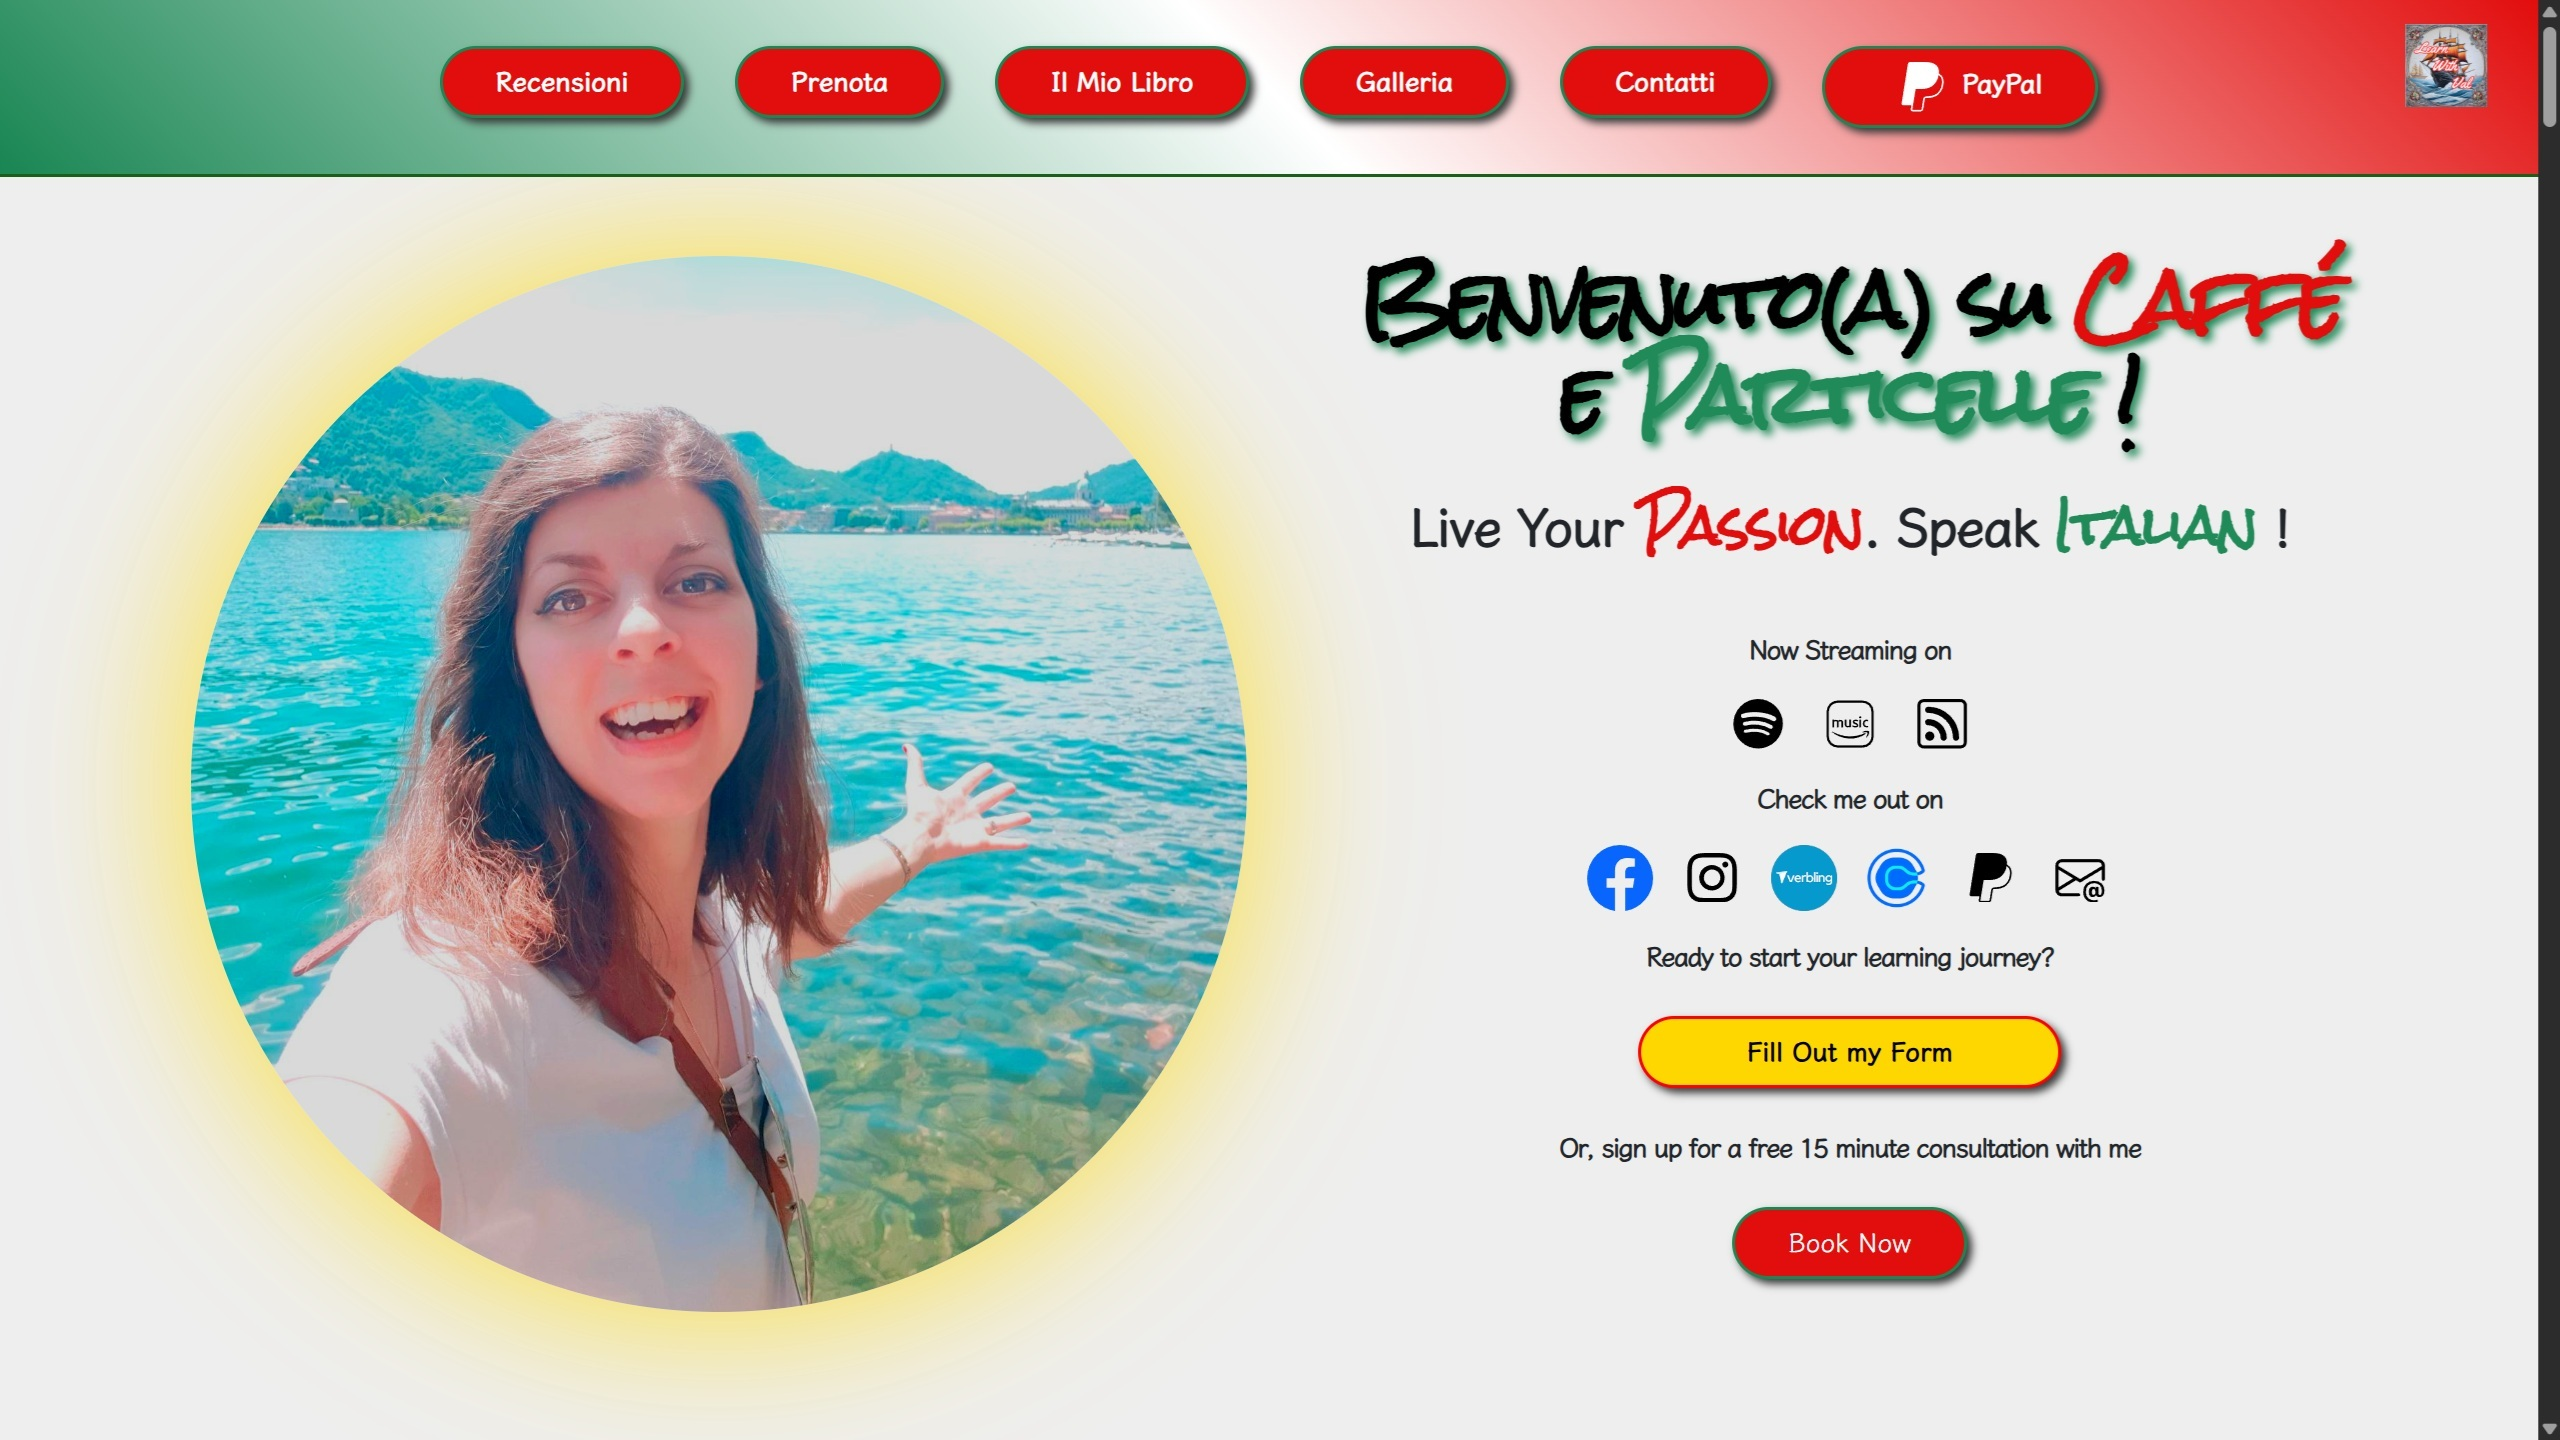
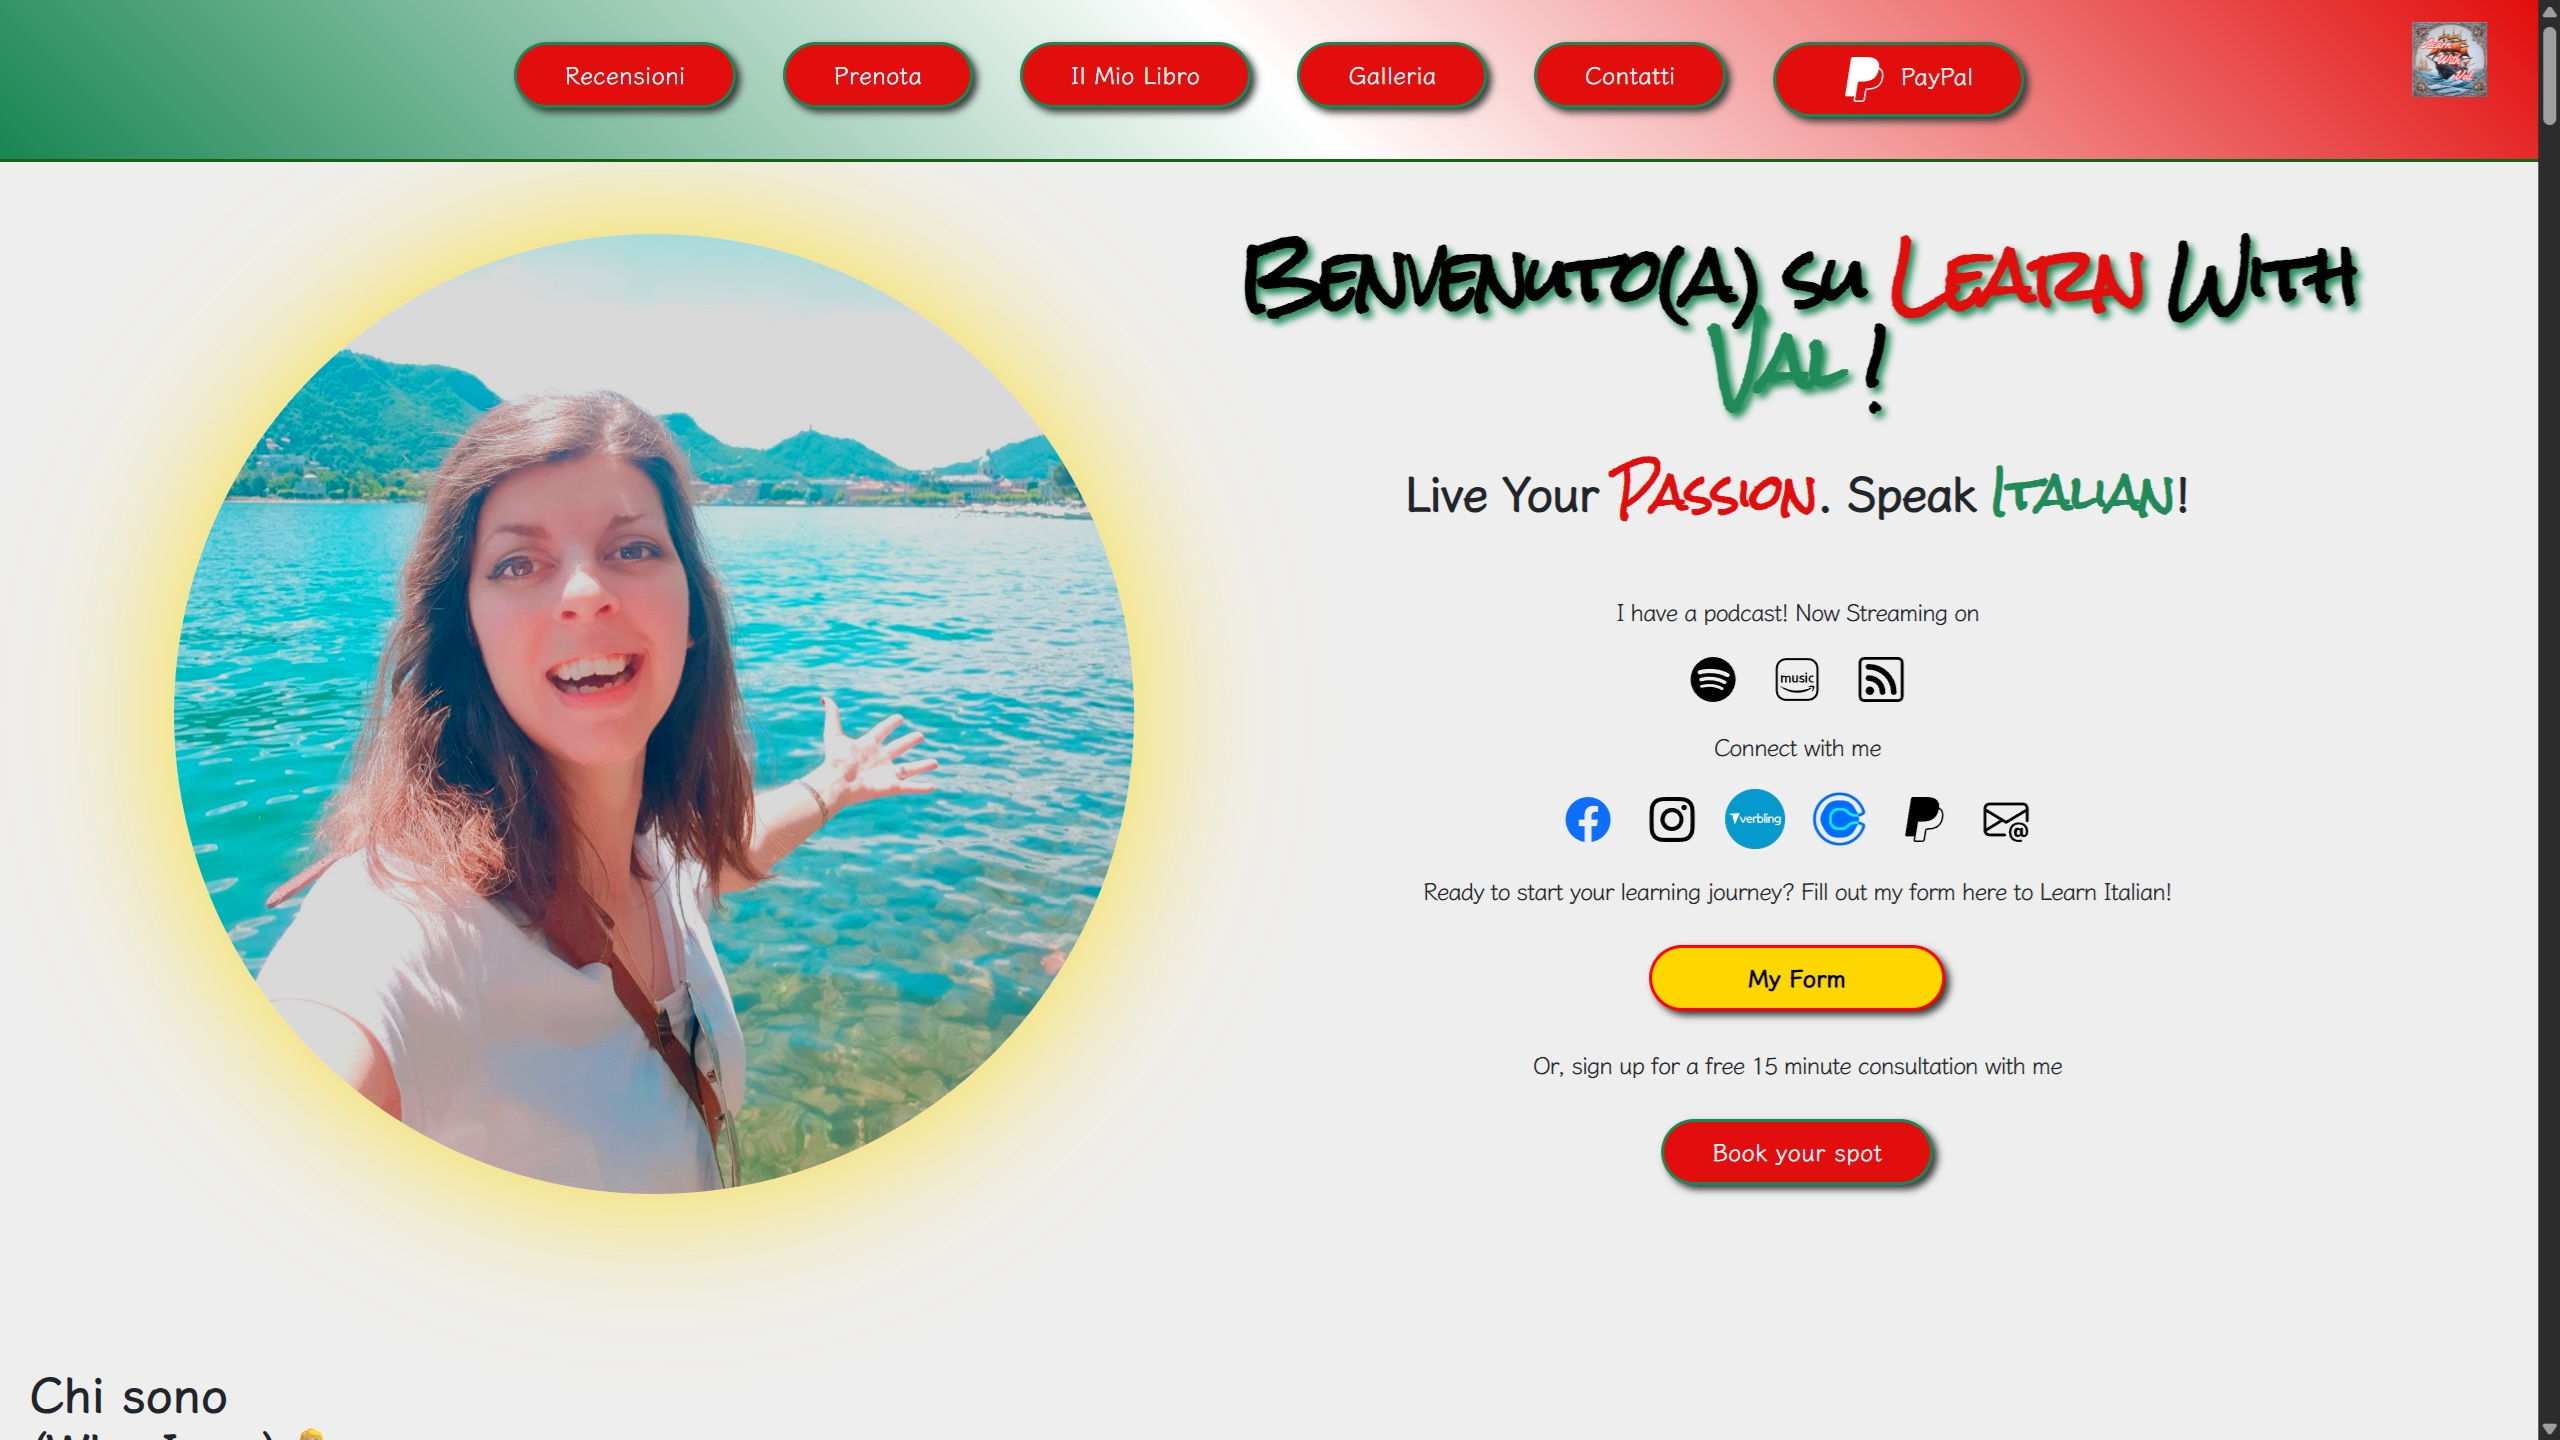
v0.4 --Added new screenshot for Val's site. --removed media query in about.css. --Removed <br>'s in about.jsx

diff --git a/src/components/about/about.jsx b/src/components/about/about.jsx
@@ -20,6 +20,7 @@ export default function About() {
         every moment of it. Eventually, I also acquired a guide for Visual Basic
         and C, and started the devouring them, as well.
       </p>
+      <br />
       <p>
         My career life as a young adult had gone a different route from coding,
         however. When I was young, I had figured I would need a degree to ever
@@ -32,6 +33,7 @@ export default function About() {
         and jumped at the chance. I've sold automotive service, then brand new
         Automobiles. Ultimately, ending my sales journey in mattress sales.
       </p>
+      <br />
       <p>
         Now, 25+ years after I initially found that love for coding, my passion
         has been reignited. I have completed a number of great courses on

diff --git a/src/components/about/about.css b/src/components/about/about.css
@@ -24,6 +24,7 @@
   -webkit-backdrop-filter: blur(8px);
 }
 .about p {
+  text-indent: 2em;
   width: 100%;
   padding: 0 5%;
 }
@@ -38,4 +39,11 @@
     justify-items: center;
   }
 
+}
+@media (max-width: 600px) {
+  #my-portrait {
+    display: block;
+    float: none;
+    width: 50%;
+  }
 }
